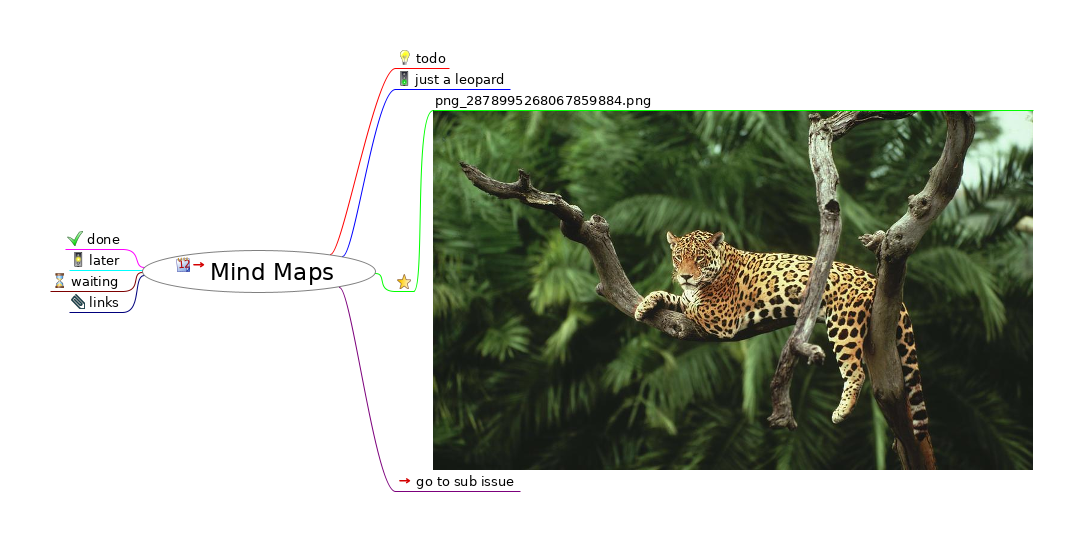
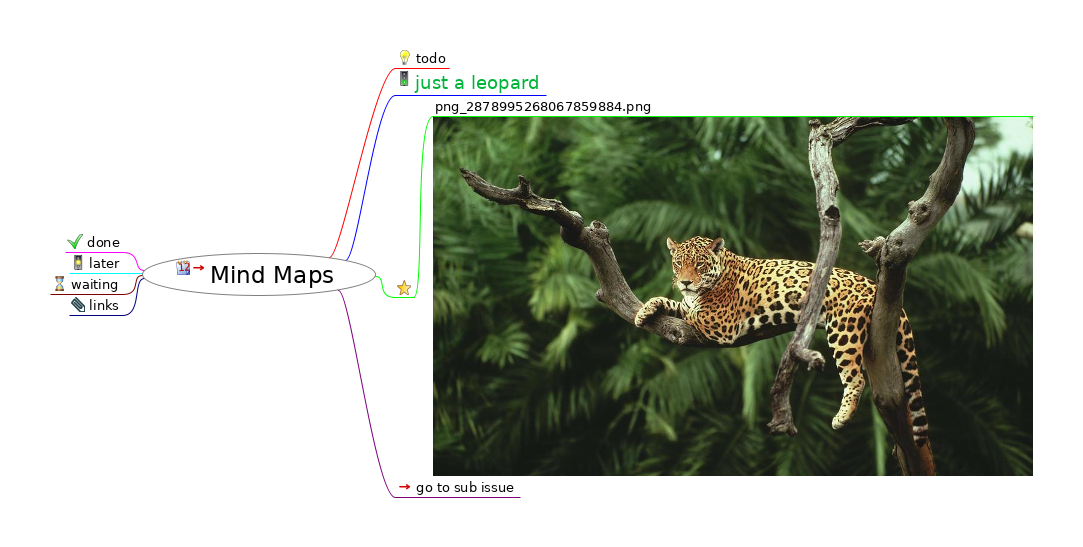
update mm

diff --git a/index.html b/index.html
@@ -23,17 +23,17 @@
                    };
                };
           
-          --></script></head><body><h1>Mind Maps</h1><div style="width:96%;  padding:2%;  margin-bottom:10px;  border: 0px;  text-align:center;  vertical-align:center;"><img src="index.html_files/image.png" style="margin-bottom:10px; &#9;border: 0px; &#9;text-align:center; &#9;vertical-align:center;" alt="Imagemap" usemap="#fm_imagemap" /></div><map name="fm_imagemap" id="fm_imagemap"><area shape="rect" href="#FMID_1894420573FM" alt="Mind Maps" title="Mind Maps" coords="142,250,376,293" />
+          --></script></head><body><h1>Mind Maps</h1><div style="width:96%;  padding:2%;  margin-bottom:10px;  border: 0px;  text-align:center;  vertical-align:center;"><img src="index.html_files/image.png" style="margin-bottom:10px; &#9;border: 0px; &#9;text-align:center; &#9;vertical-align:center;" alt="Imagemap" usemap="#fm_imagemap" /></div><map name="fm_imagemap" id="fm_imagemap"><area shape="rect" href="#FMID_1894420573FM" alt="Mind Maps" title="Mind Maps" coords="142,253,376,296" />
 <area shape="rect" href="#FMID_359991860FM" alt="todo" title="todo" coords="395,50,449,68" />
-<area shape="rect" href="#FMID_1857399077FM" alt="just a leopard" title="just a leopard" coords="395,71,510,89" />
-<area shape="rect" href="#FMID_695904482FM" alt="" title="" coords="395,274,414,291" />
-<area shape="rect" href="#FMID_1672181910FM" alt="png_2878995268067859884.png" title="png_2878995268067859884.png" coords="433,92,1033,470" />
-<area shape="rect" href="#FMID_902002559FM" alt="go to sub issue" title="go to sub issue" coords="395,473,520,491" />
-<area shape="rect" href="#FMID_433819245FM" alt="done" title="done" coords="65,231,123,249" />
-<area shape="rect" href="#FMID_848414105FM" alt="later" title="later" coords="69,252,123,270" />
-<area shape="rect" href="#FMID_1042692083FM" alt="waiting" title="waiting" coords="50,273,123,291" />
-<area shape="rect" href="#FMID_1823870673FM" alt="links" title="links" coords="69,294,123,312" />
+<area shape="rect" href="#FMID_1857399077FM" alt="just a leopard" title="just a leopard" coords="395,71,546,95" />
+<area shape="rect" href="#FMID_695904482FM" alt="" title="" coords="395,280,414,297" />
+<area shape="rect" href="#FMID_1672181910FM" alt="png_2878995268067859884.png" title="png_2878995268067859884.png" coords="433,98,1033,476" />
+<area shape="rect" href="#FMID_902002559FM" alt="go to sub issue" title="go to sub issue" coords="395,479,520,497" />
+<area shape="rect" href="#FMID_433819245FM" alt="done" title="done" coords="65,234,123,252" />
+<area shape="rect" href="#FMID_848414105FM" alt="later" title="later" coords="69,255,123,273" />
+<area shape="rect" href="#FMID_1042692083FM" alt="waiting" title="waiting" coords="50,276,123,294" />
+<area shape="rect" href="#FMID_1823870673FM" alt="links" title="links" coords="69,297,123,315" />
 </map>
 
-<div class="node"><img src="index.html_files/hide.png" class="hideshow" alt="hide" onClick="toggle(&quot;N65543&quot;)" id="imgN65543" /><img src="index.html_files/icons/calendar.svg" alt="calendar" /> <a id="FMID_1894420573FM" /><div class="nodecontent" style="color:#000000;font-size:150%;"><a href="index.html">Mind Maps</a> <a href="index.html"><img src="index.html_files/ilink.png" alt="User Link" style="border-width:0" /></a></div><div class="content" id="N65543"><div class="node"><img src="index.html_files/leaf.png" class="hideshow" alt="leaf" /><img src="index.html_files/icons/idea.svg" alt="idea" /> <a id="FMID_359991860FM" /><div class="nodecontent" style="color:#000000;font-size:83%;">todo</div></div><div class="node"><img src="index.html_files/leaf.png" class="hideshow" alt="leaf" /><img src="index.html_files/icons/go.svg" alt="go" /> <a id="FMID_1857399077FM" /><div class="nodecontent" style="color:#000000;font-size:83%;">just a leopard</div></div><div class="node"><img src="index.html_files/hide.png" class="hideshow" alt="hide" onClick="toggle(&quot;N66529&quot;)" id="imgN66529" /><img src="index.html_files/icons/bookmark.svg" alt="bookmark" /> <a id="FMID_695904482FM" /><div class="nodecontent" style="color:#000000;font-size:83%;" /><div class="content" id="N66529"><div class="node"><img src="index.html_files/leaf.png" class="hideshow" alt="leaf" /><a id="FMID_1672181910FM" /><div class="nodecontent" style="color:#000000;font-size:83%;">png_2878995268067859884.png</div></div></div></div><div class="node"><img src="index.html_files/leaf.png" class="hideshow" alt="leaf" /><a id="FMID_902002559FM" /><div class="nodecontent" style="color:#000000;font-size:83%;"><a href="sub%20issue.html">go to sub issue</a> <a href="sub%20issue.html"><img src="index.html_files/ilink.png" alt="User Link" style="border-width:0" /></a></div></div><div class="node"><img src="index.html_files/leaf.png" class="hideshow" alt="leaf" /><img src="index.html_files/icons/button_ok.svg" alt="button_ok" /> <a id="FMID_433819245FM" /><div class="nodecontent" style="color:#000000;font-size:83%;">done</div></div><div class="node"><img src="index.html_files/leaf.png" class="hideshow" alt="leaf" /><img src="index.html_files/icons/prepare.svg" alt="prepare" /> <a id="FMID_848414105FM" /><div class="nodecontent" style="color:#000000;font-size:83%;">later</div></div><div class="node"><img src="index.html_files/leaf.png" class="hideshow" alt="leaf" /><img src="index.html_files/icons/hourglass.svg" alt="hourglass" /> <a id="FMID_1042692083FM" /><div class="nodecontent" style="color:#000000;font-size:83%;">waiting</div></div><div class="node"><img src="index.html_files/leaf.png" class="hideshow" alt="leaf" /><img src="index.html_files/icons/attach.svg" alt="attach" /> <a id="FMID_1823870673FM" /><div class="nodecontent" style="color:#000000;font-size:83%;">links</div></div></div></div>
+<div class="node"><img src="index.html_files/hide.png" class="hideshow" alt="hide" onClick="toggle(&quot;N65543&quot;)" id="imgN65543" /><img src="index.html_files/icons/calendar.svg" alt="calendar" /> <a id="FMID_1894420573FM" /><div class="nodecontent" style="color:#000000;font-size:150%;"><a href="index.html">Mind Maps</a> <a href="index.html"><img src="index.html_files/ilink.png" alt="User Link" style="border-width:0" /></a></div><div class="content" id="N65543"><div class="node"><img src="index.html_files/leaf.png" class="hideshow" alt="leaf" /><img src="index.html_files/icons/idea.svg" alt="idea" /> <a id="FMID_359991860FM" /><div class="nodecontent" style="color:#000000;font-size:83%;">todo</div></div><div class="node"><img src="index.html_files/leaf.png" class="hideshow" alt="leaf" /><img src="index.html_files/icons/go.svg" alt="go" /> <a id="FMID_1857399077FM" /><div class="nodecontent" style="color:#00b439;font-size:117%;">just a leopard</div></div><div class="node"><img src="index.html_files/hide.png" class="hideshow" alt="hide" onClick="toggle(&quot;N66530&quot;)" id="imgN66530" /><img src="index.html_files/icons/bookmark.svg" alt="bookmark" /> <a id="FMID_695904482FM" /><div class="nodecontent" style="color:#000000;font-size:83%;" /><div class="content" id="N66530"><div class="node"><img src="index.html_files/leaf.png" class="hideshow" alt="leaf" /><a id="FMID_1672181910FM" /><div class="nodecontent" style="color:#000000;font-size:83%;">png_2878995268067859884.png</div></div></div></div><div class="node"><img src="index.html_files/leaf.png" class="hideshow" alt="leaf" /><a id="FMID_902002559FM" /><div class="nodecontent" style="color:#000000;font-size:83%;"><a href="sub%20issue.html">go to sub issue</a> <a href="sub%20issue.html"><img src="index.html_files/ilink.png" alt="User Link" style="border-width:0" /></a></div></div><div class="node"><img src="index.html_files/leaf.png" class="hideshow" alt="leaf" /><img src="index.html_files/icons/button_ok.svg" alt="button_ok" /> <a id="FMID_433819245FM" /><div class="nodecontent" style="color:#000000;font-size:83%;">done</div></div><div class="node"><img src="index.html_files/leaf.png" class="hideshow" alt="leaf" /><img src="index.html_files/icons/prepare.svg" alt="prepare" /> <a id="FMID_848414105FM" /><div class="nodecontent" style="color:#000000;font-size:83%;">later</div></div><div class="node"><img src="index.html_files/leaf.png" class="hideshow" alt="leaf" /><img src="index.html_files/icons/hourglass.svg" alt="hourglass" /> <a id="FMID_1042692083FM" /><div class="nodecontent" style="color:#000000;font-size:83%;">waiting</div></div><div class="node"><img src="index.html_files/leaf.png" class="hideshow" alt="leaf" /><img src="index.html_files/icons/attach.svg" alt="attach" /> <a id="FMID_1823870673FM" /><div class="nodecontent" style="color:#000000;font-size:83%;">links</div></div></div></div>
 </body></html>

diff --git a/index.mm b/index.mm
@@ -64,12 +64,12 @@
 </stylenode>
 </map_styles>
 </hook>
-<hook NAME="AutomaticEdgeColor" COUNTER="20" RULE="ON_BRANCH_CREATION"/>
+<hook NAME="AutomaticEdgeColor" COUNTER="21" RULE="ON_BRANCH_CREATION"/>
 <node TEXT="todo" POSITION="right" ID="ID_359991860" CREATED="1569784692611" MODIFIED="1569784692622">
 <icon BUILTIN="idea"/>
 <edge COLOR="#ff0000"/>
 </node>
-<node TEXT="just a leopard" POSITION="right" ID="ID_1857399077" CREATED="1569784692623" MODIFIED="1569786540761">
+<node TEXT="just a leopard" LOCALIZED_STYLE_REF="AutomaticLayout.level,2" POSITION="right" ID="ID_1857399077" CREATED="1569784692623" MODIFIED="1569787418794">
 <icon BUILTIN="go"/>
 <edge COLOR="#0000ff"/>
 </node>
